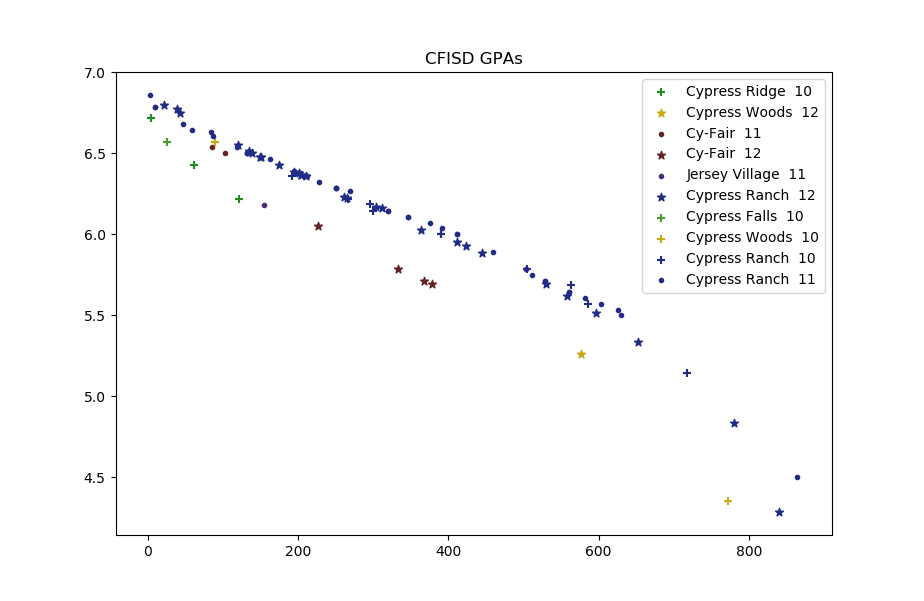
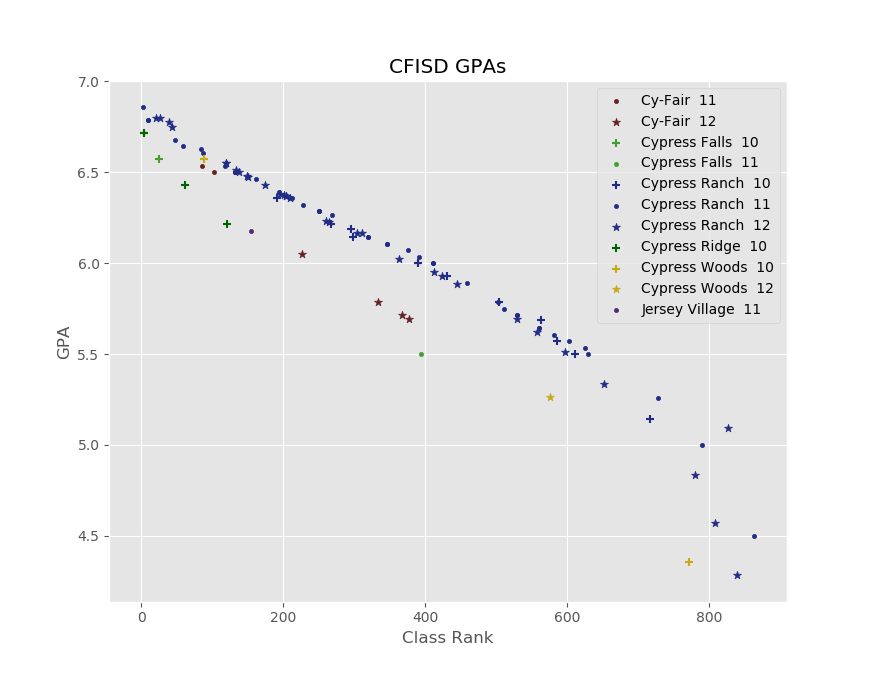
Fixed GPA Graph

diff --git a/other_visuals/show_gpa_stats.py b/other_visuals/show_gpa_stats.py
@@ -52,7 +52,7 @@ def create_plot():
         elif "Woods" in school:
             return "#c6ab16"
         elif "Ridge" in school:
-            return "#208f20"
+            return "#006400"
         elif "Falls" in school:
             return "#42a02c"
         else:
@@ -67,7 +67,9 @@ def create_plot():
 
     legend = []
 
-    for class_ in sorted(class_map.keys()):
+    plt.style.use('ggplot')
+
+    for class_ in sorted(class_map, key=lambda key: class_map[key]):
 
         x, y = [], []
 
@@ -83,6 +85,8 @@ def create_plot():
 
     plt.legend(legend)
     plt.yticks([4.5, 5, 5.5, 6, 6.5, 7])
+    plt.ylabel('GPA')
+    plt.xlabel('Class Rank')
     plt.title('CFISD GPAs')
     plt.show()
 

diff --git a/README.md b/README.md
@@ -24,3 +24,7 @@ purely abstract, they serve as an interesting way to visualize students and see 
 ### Screenshot
 
 ![screenshot](https://cloud.githubusercontent.com/assets/6625384/25551412/3e642c36-2c4a-11e7-84ca-030f6d723ba6.gif)
+
+## Other Visuals
+
+![gpa](https://raw.githubusercontent.com/sshh12/Students-Visualization/master/other_visuals/gpa_stats.png)
